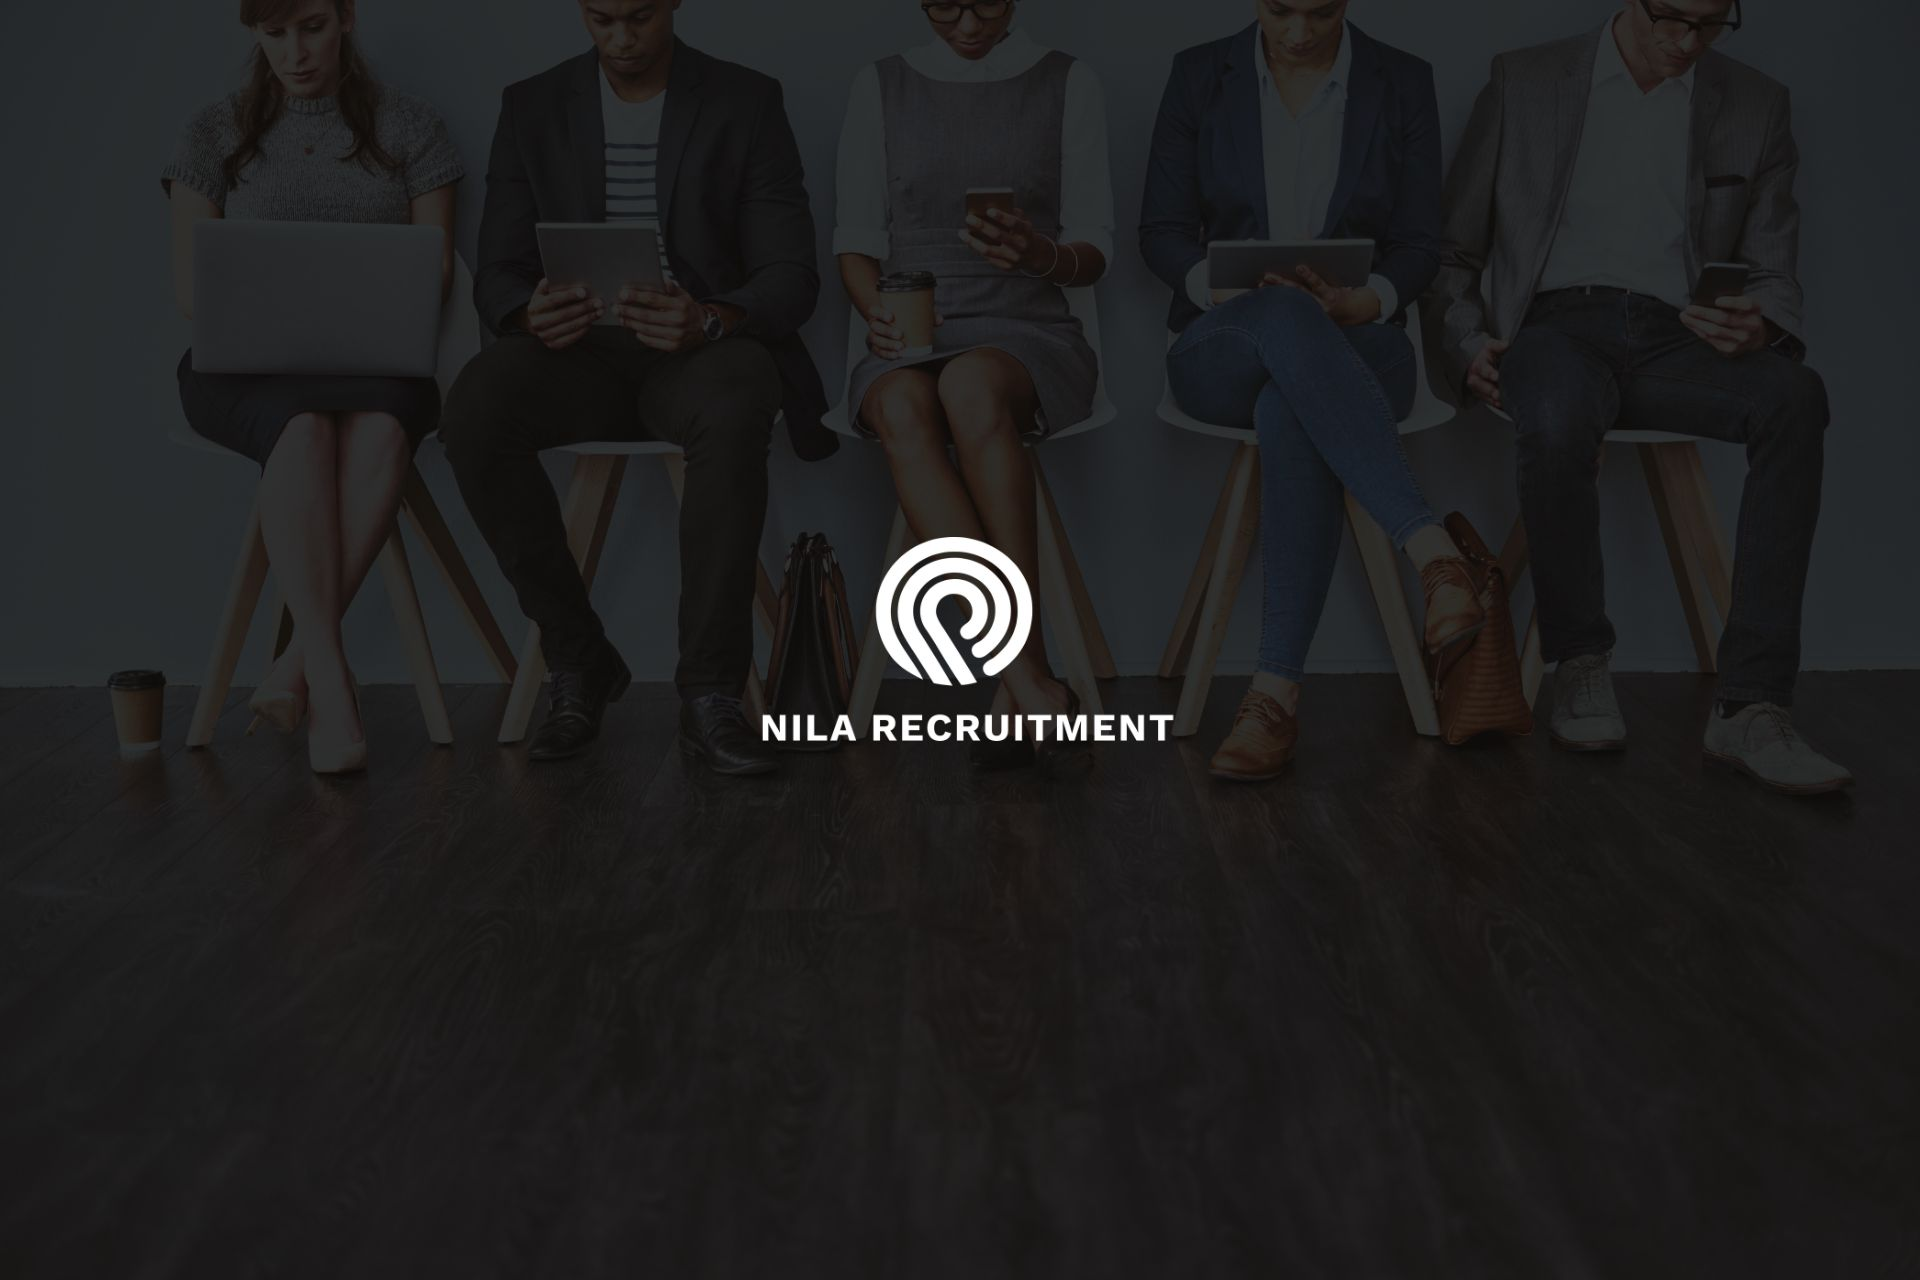
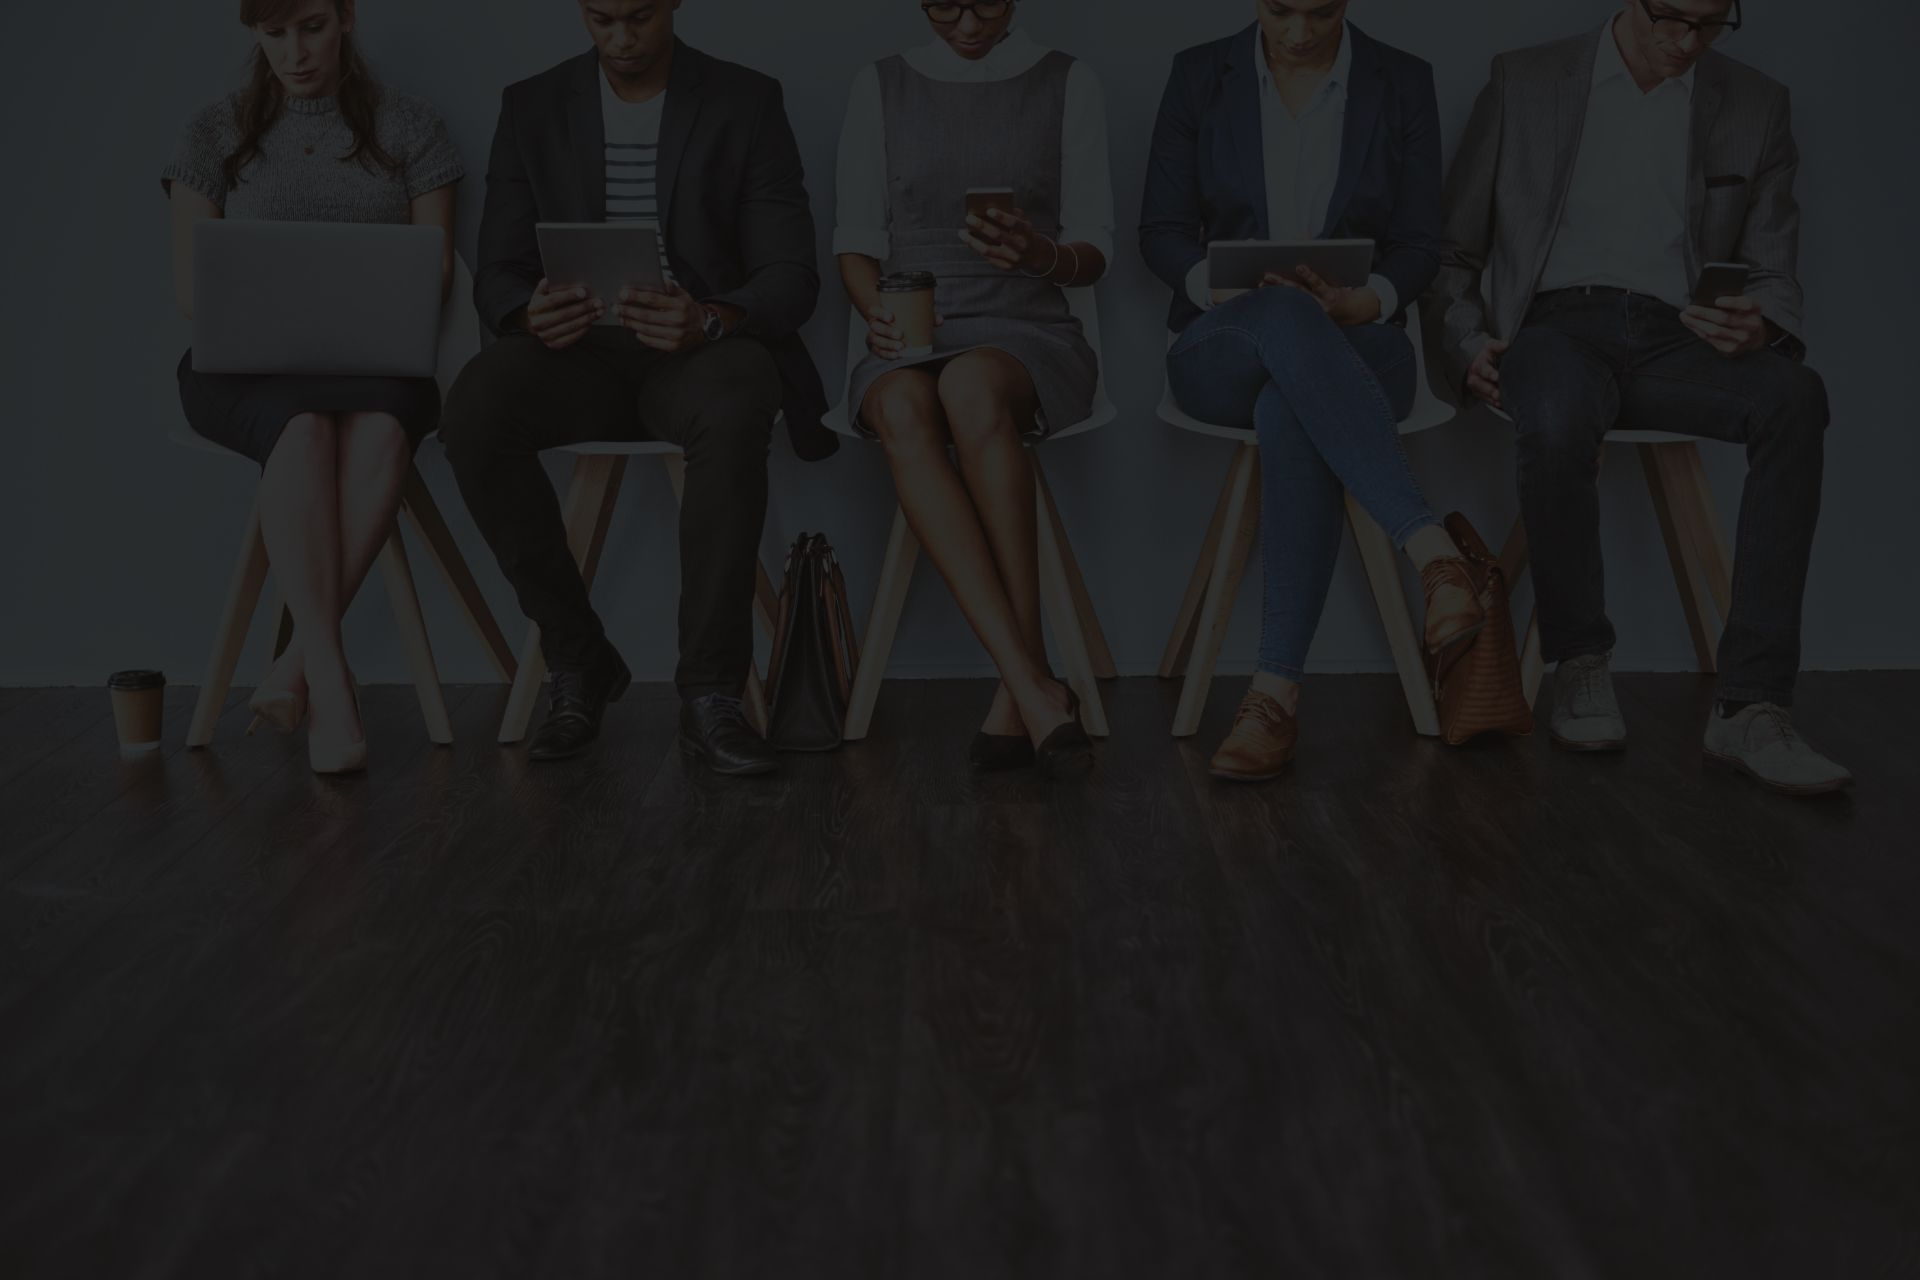
Add

Changed region(s): [[0.375, 0.4062, 0.625, 0.5938]]

diff --git a/index.html b/index.html
@@ -8,7 +8,7 @@
   <link rel="icon" type="image/x-icon" href="images/favicon.svg">
     <style>
         body {
-            background-image: url('images/content/coming-soon.jpg');
+            background-image: url('img/content/coming-soon.jpg');
             background-size: cover;
             font-family: Arial, sans-serif;
             margin: 0;
@@ -36,7 +36,7 @@
     </style>
 </head>
 <body>
-   <!-- <section><h1>Nila Recruitment<br>Comming Soon</h1></section> <br> -->
+   <section><h1>Nila Recruitment<br>Comming Soon</h1></section> <br>
 
 </body>
 </html>
